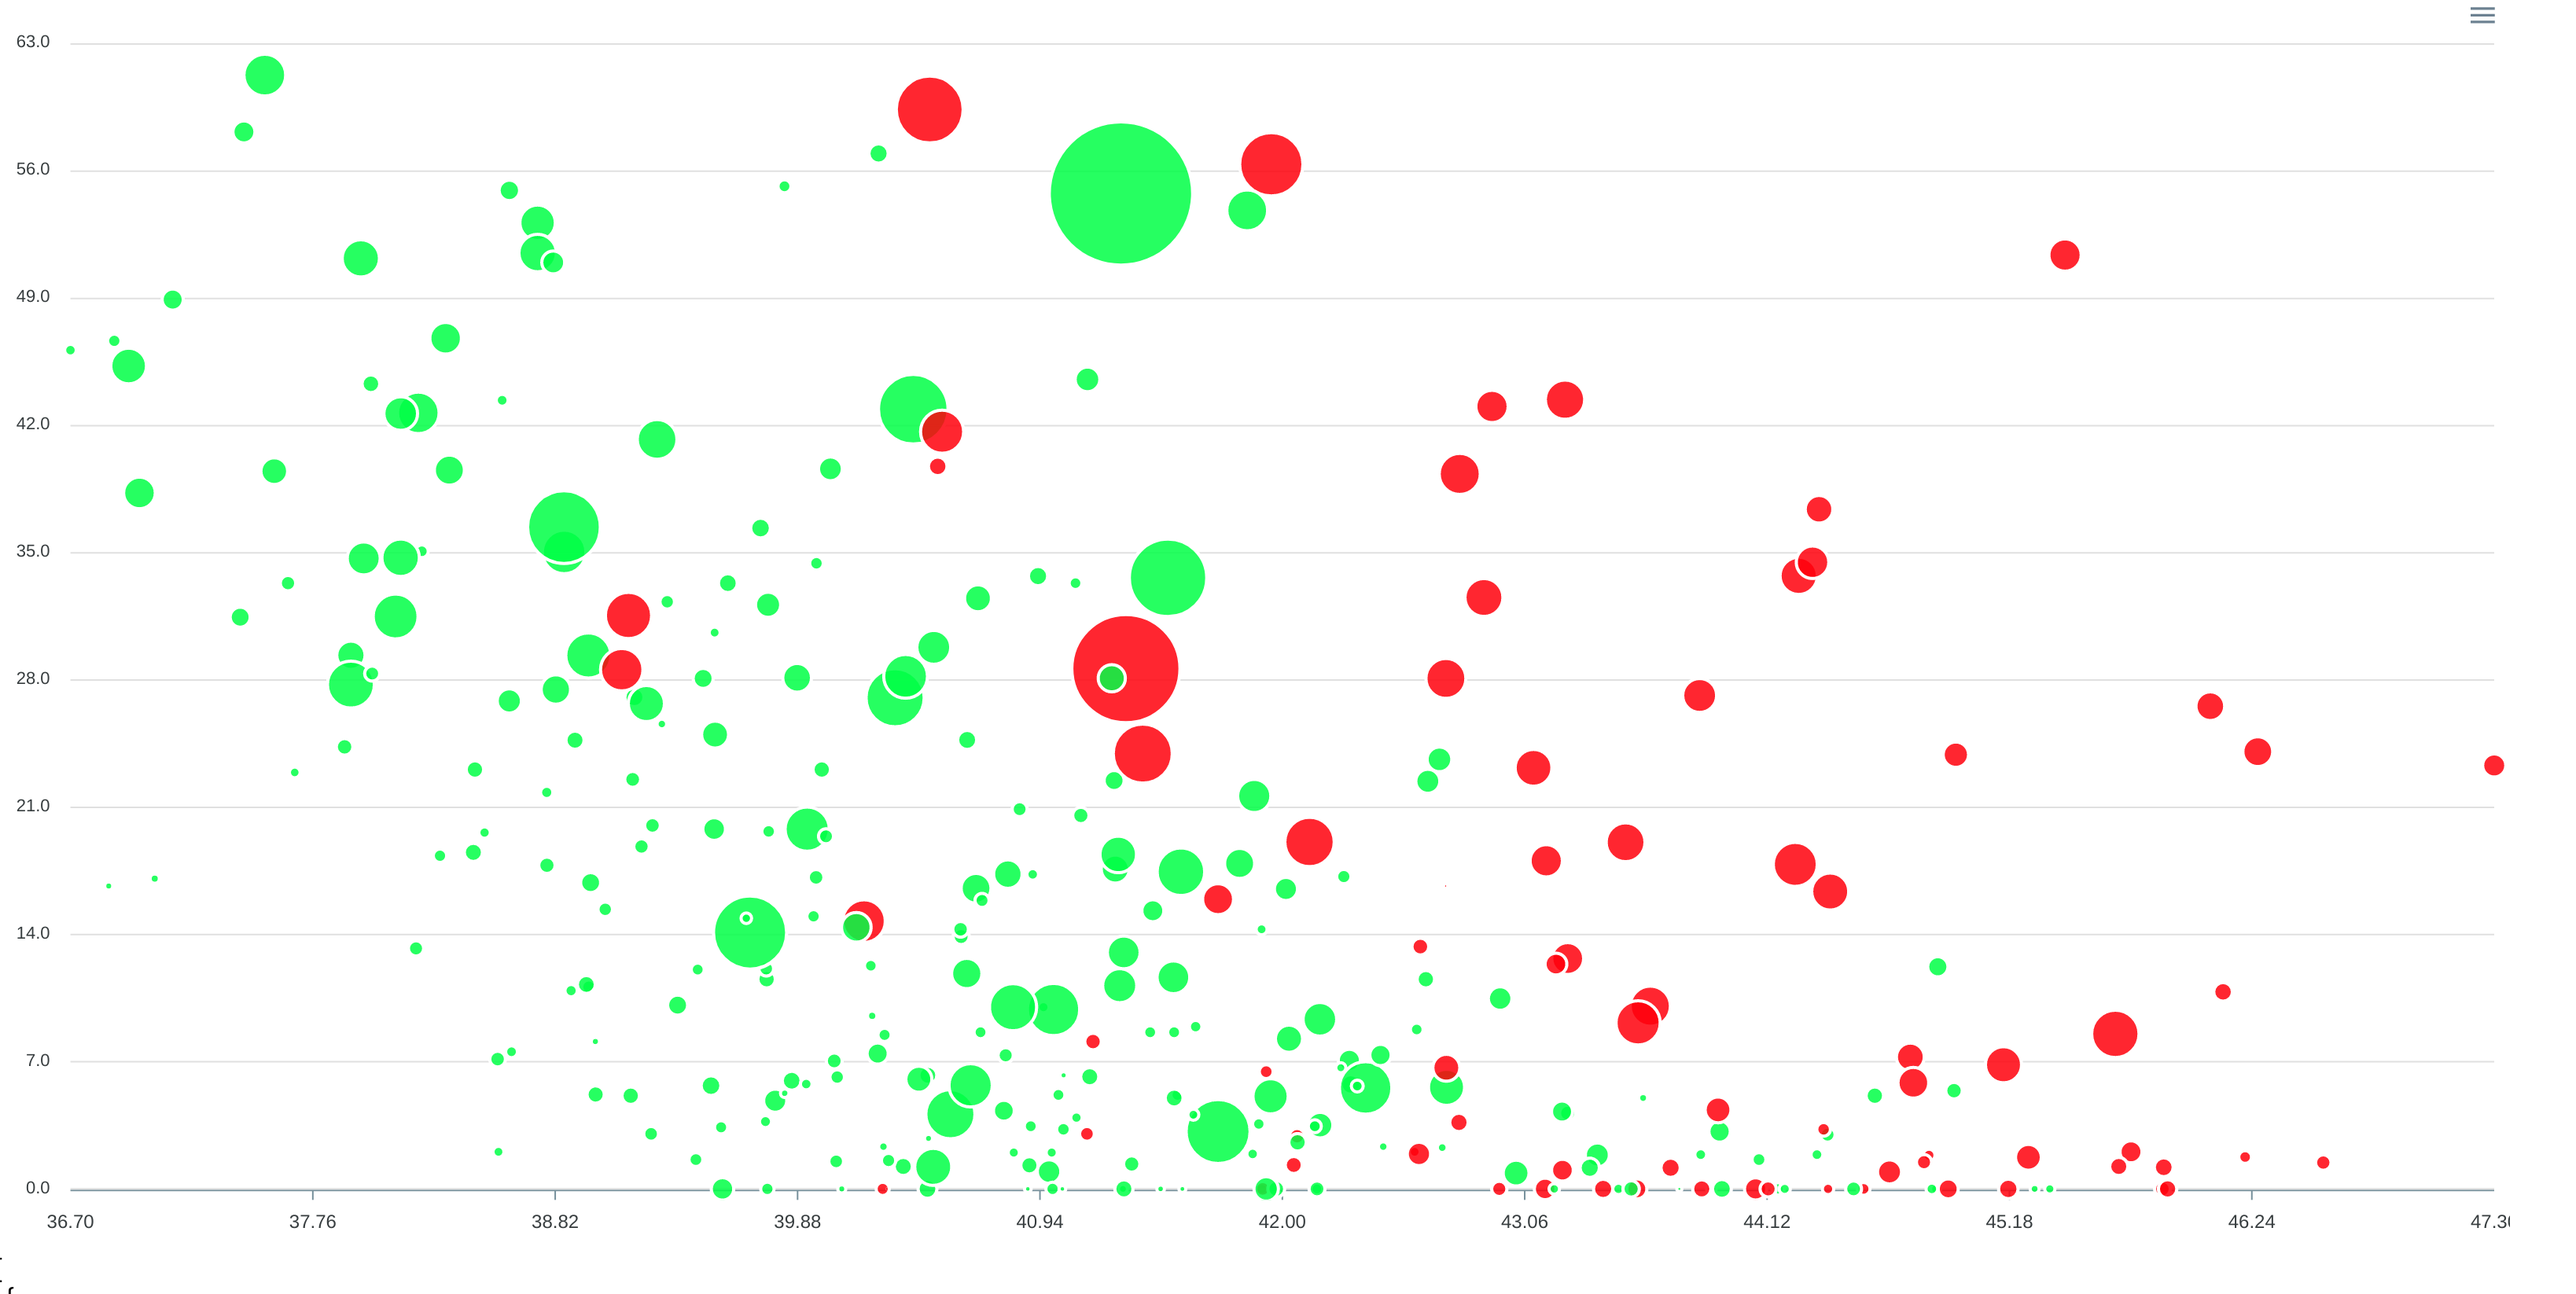
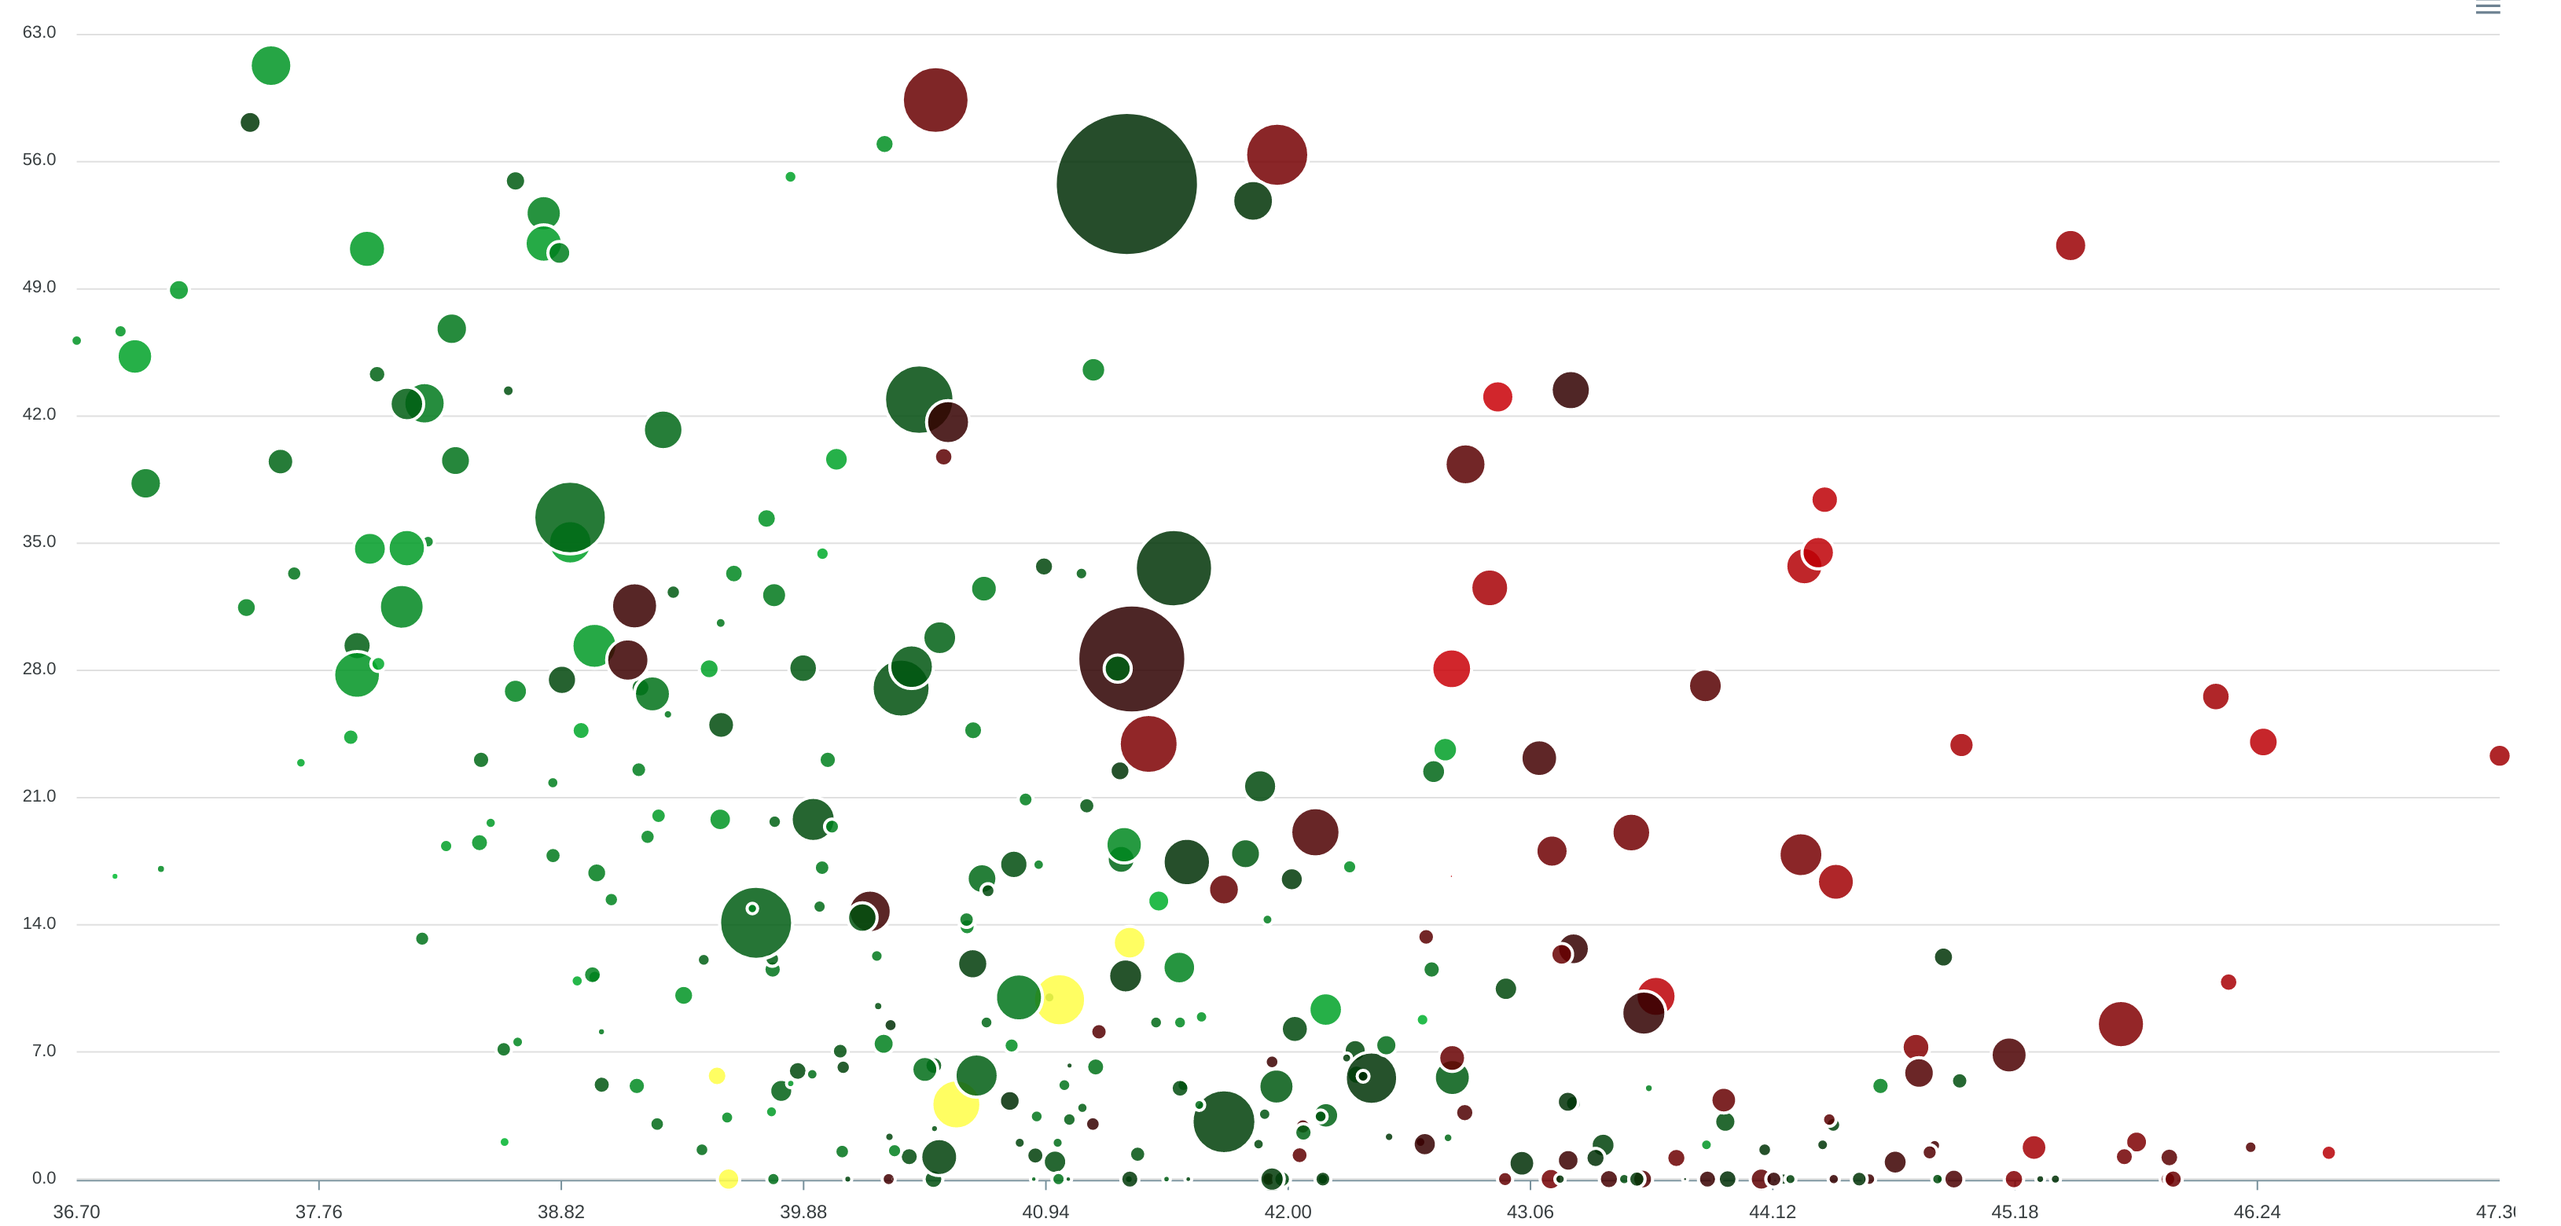
darken

diff --git a/client/src/App/G/index.tsx b/client/src/App/G/index.tsx
@@ -1,5 +1,6 @@
 // @ts-nocheck
 import React, { useMemo } from 'react'
+import color from 'color'
 //import { Chart } from 'react-charts'
 import Chart from 'react-apexcharts'
 import { useQuery } from '@apollo/react-hooks'
@@ -18,14 +19,17 @@ const options = {
       },
       ...aee
     }) => {
-      if(!series[seriesIndex].data[0][3]) {
-        return '#000000'
+      console.log(series[seriesIndex].data)
+      if(!series[seriesIndex].data[0][3][0]) {
+        console.log('noooo')
+        return '#FFFF00'
       }
       if (series[seriesIndex].data[0][3][0] < series[seriesIndex].data[0][3][1]) {
-        return '#FF0000'
+
+        return color('#FF0000').darken((series[seriesIndex].data[0][3][0] / series[seriesIndex].data[0][3][1])/1.2).hex()
         
       }
-      return '#00FF00'
+      return color('#00FF00').darken((series[seriesIndex].data[0][3][1] / series[seriesIndex].data[0][3][0])/1.2).hex() 
     }
   ],
   fill: {

diff --git a/README.md b/README.md
@@ -2,7 +2,7 @@
 
 ## how local authorities voted in eu referendum
 
-green is leave red is remain - income inequality increased from left to right - number of deprived areas increases as you go up, size is size of local authority.
+green is leave red is remain - income inequality increased from left to right - number of deprived areas increases as you go up, size is size of local authority.  The darker the more marginal
 ![euref](euref.png)
 
 
